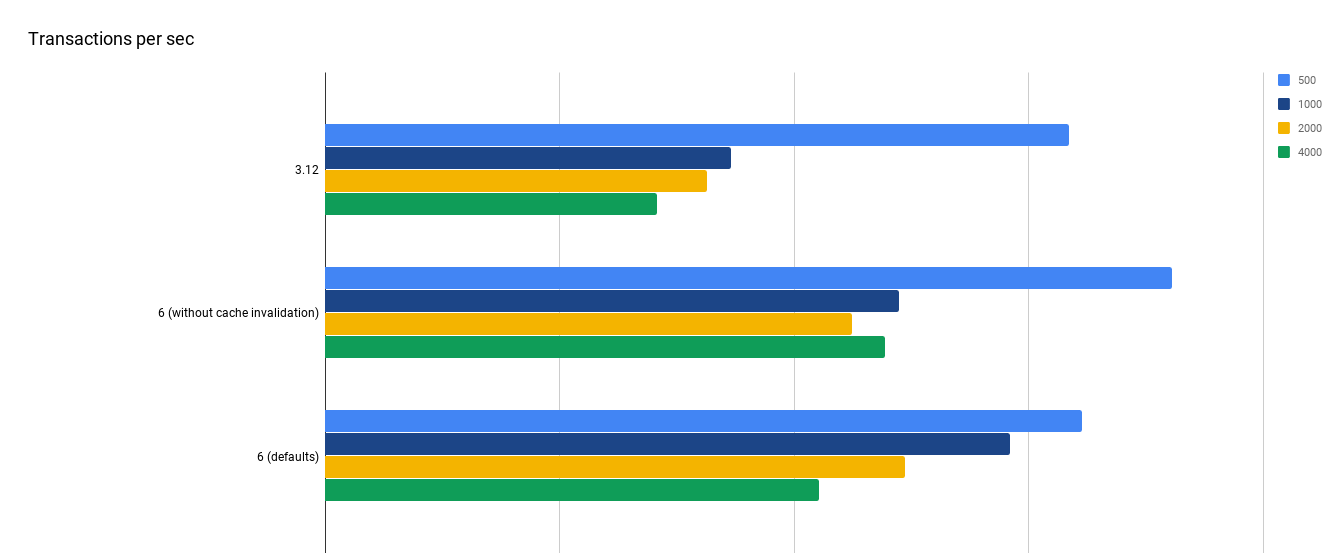
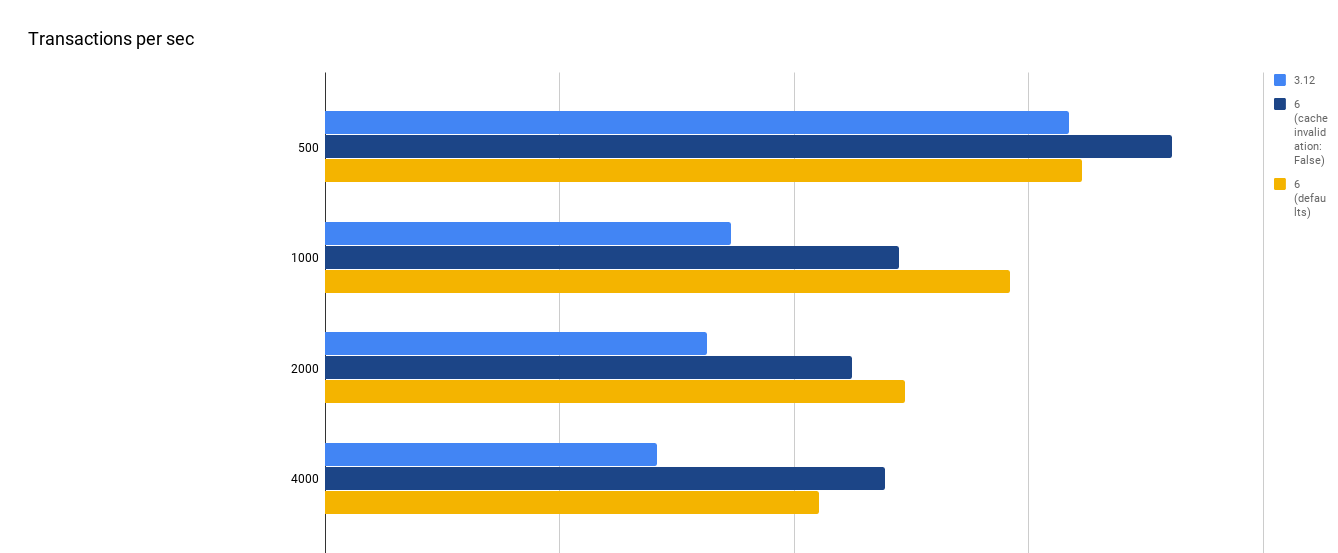
Changed orientaion of graphs

Changed region(s): [[0.1226, 0.1844, 0.8886, 0.953], [0.9499, 0.1844, 1.0, 0.3689], [0.9499, 0.123, 0.9806, 0.1537]]

diff --git a/_posts/2019-04-05-gluster-3-12-vs-6-a-performance-oriented-overview.md b/_posts/2019-04-05-gluster-3-12-vs-6-a-performance-oriented-overview.md
@@ -103,7 +103,7 @@ Steps for preparing the test database:-
 
 *Time taken to create the db seems to be more in gluster-6 still investigating performance improvements.*
 
-Now let us look at some pg-bench results. Have created two disks *(Preallocated & Thinly-Provisioned)* . Added various parameters to check the performance. These volume options are set from ovirt-ui. Before running tests for stat-prefetch have run
+Now let us look at some pg-bench results. Have created two disks *(Preallocated & Thinly-Provisioned)* . Added various parameters to check the performance. These volume options are set from ovirt-ui. Before running tests for pg-bench have run
 `echo 3 > /proc/sys/vm/drop_caches && sync` on the hypervisor hosts.
  
 
@@ -135,12 +135,11 @@ The raw data for the below results are located in : [gluster-pg-bench-test-resul
 **tps**: Transactions per second **Higher is better**
 
 |------------------------------------------------------------|---------|----------|----------|----------|
-| Gluster ver with/out options<br/>(Thinly Provisioned disk) | 500 tps | 1000 tps | 2000 tps | 4000 tps |
+| % difference seen from gluster 3.12<br/>(Thinly Provisioned disk) | 500 tps | 1000 tps | 2000 tps | 4000 tps |
 |:-----------------------------------------------------------|--------:|---------:|---------:|---------:|
 | 6 (cache-invalidation=false)                               | +13.88%| +41.15%   | +37%     | +68%     |
 | 6 (defaults)                                               | +1.87% | +68.5%    | +51 %    | +49%     |
 
-**Change % wrt gluster 3.12**
 ![txn-per-sec-thinly-provisioned](images/gluster-3.12vs-6/txn-per-sec-thinly-provisioned.png "txn-per-sec-thinly-provisioned")
 
 |------------------------------------------------------------|---------|----------|----------|----------|
@@ -154,12 +153,11 @@ The raw data for the below results are located in : [gluster-pg-bench-test-resul
 **tps**: Transactions per second **Higher is better**
 
 |------------------------------------------------------------|---------|----------|----------|----------|
-| Gluster ver with/out options<br/>(Preallocated)            | 500 tps | 1000 tps | 2000 tps | 4000 tps |
+| % difference seen from gluster 3.12<br/>(Preallocated)            | 500 tps | 1000 tps | 2000 tps | 4000 tps |
 |:-----------------------------------------------------------|--------:|---------:|---------:|---------:|
 | 6 (cache-invalidation=false)                               | +126%   | +57%     | +69%     | +53%     |
 | 6 (defaults)                                               | +99.97% | +21%     | +38%     | +11.8%   |
 
-**Change % wrt gluster 3.12**
 ![txn-per-sec-preallocated.png](images/gluster-3.12vs-6/txn-per-sec-preallocated.png "txn-per-sec-preallocated")
 
 There is indeed a performance improvement seen with gluster-6 for certain workloads especially without cache-invalidations, although there is a ~12% performance drop while creating the db.
